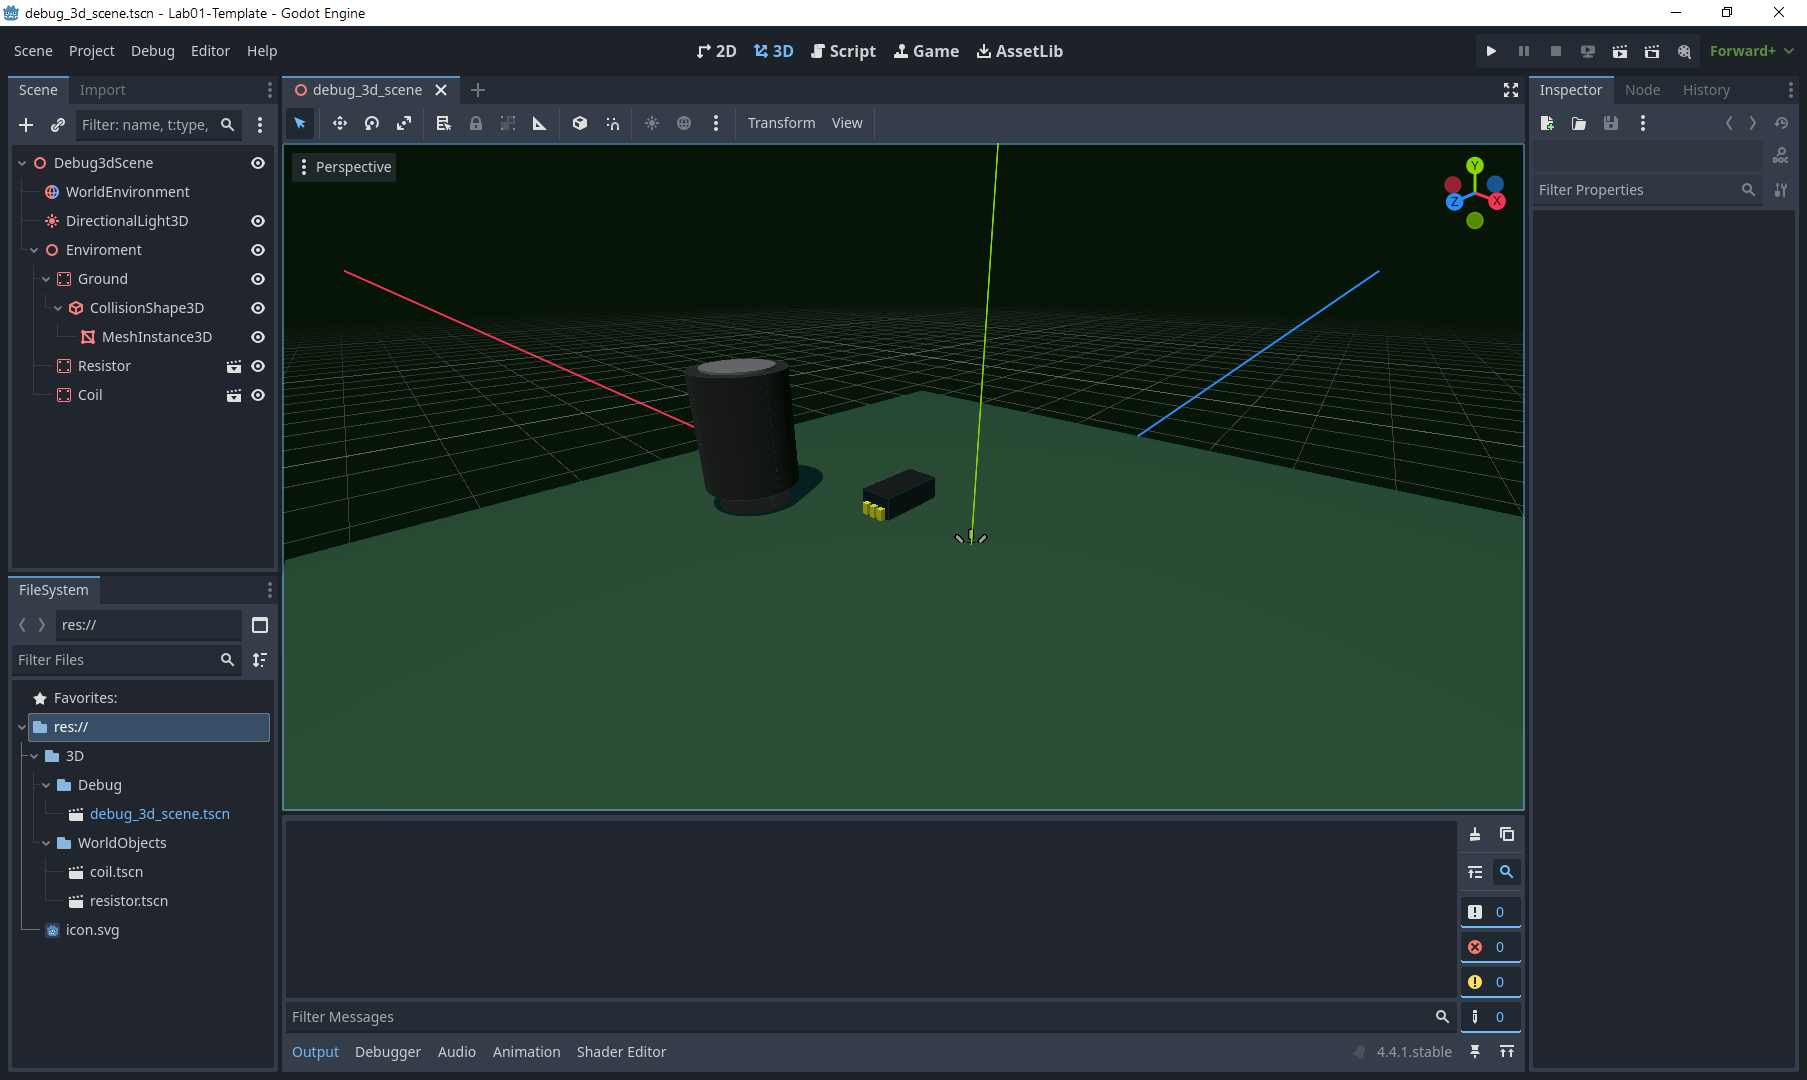
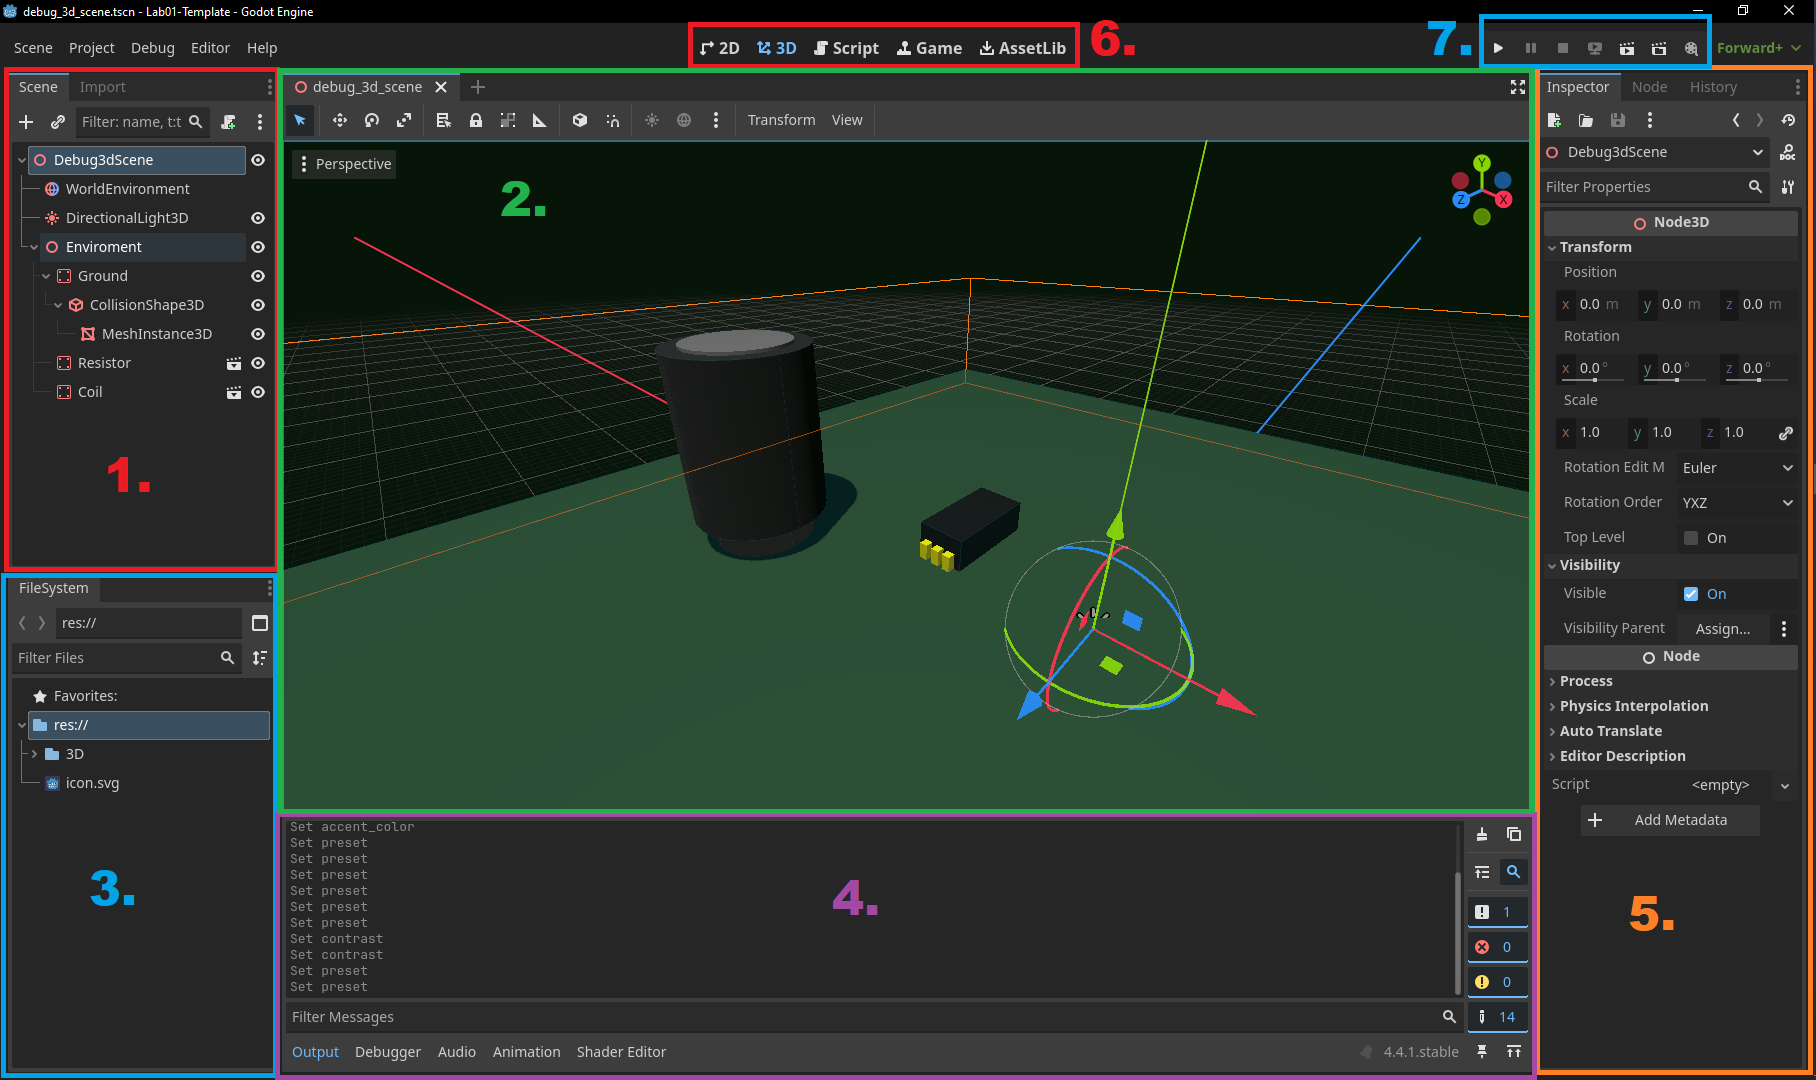
6 Chapters done to node hierarchy explain

diff --git a/01_Basics/lab01.md b/01_Basics/lab01.md
@@ -18,7 +18,7 @@ First we need to download the Godot Engine itself. Each Godot release has two ve
 This tutorial will use the standard version using GDScript, which is a python-like scripting language made specifically for Godot. You can use C# and GDScript interchangeably in one project (with some minor restrictions) but this tutorial will be done entirely in GDScript for simplicity.
 
 <aside class="positive">
-To maximaze performance of a project you would ideally use C# for complex algorithms (such as pathfinding or other complex calculations) and GDScript for interfacing with the engine and calling engine functions.  
+To maximize performance of a project you would ideally use C# for complex algorithms (such as pathfinding or other complex calculations) and GDScript for interfacing with the engine and calling engine functions.  
 </aside>
 
 ### Engine Version
@@ -48,6 +48,129 @@ Each lab will have a template project that we will fill out together. This lab's
 1. Download the template using the link above
 2. Place it into a folder of your choosing, where you will have all other Godot projects.
 3. Launch the Godot Engine `Godot_v4.4.1-stable_win64.exe` (or an alternative for your operating system)
-4. Click one the import button and find the folder, where you downloaded the template project. There select the `project.godot` file and press open. ![](img/ProjectImport.png)
+4. Click one of the `Import` buttons and find the folder, where you downloaded the template project. There select the `project.godot` file and press open. ![](img/ProjectImport.png)
 5. In the popup window select `Import`.
+6. The project should be open now.
+
+
+
+## Godot UI
+Duration: hh:mm:ss
+
+Now with the project open it might a bit overwhelming to orient yourself in the Godot UI so let's look at it. (Each part will be explained in greater detail later on)
+![](img/GodotUI.png)
+1. This is the Scene hierarchy. Here you will see all the Nodes (basic building blocks) in the current scene and how they are composed in the scene tree. There is also a second tab for import settings of assets.
+2. This is the scene view. It is visible because in 6. the 3D tab is selected. This is the main way you can look around and preview the scene you are making.
+3. This is the FileSystem. It shows you all the files, folders, and assets that are present in the projects folder.
+4. This is a window with multiple functionalities. 
+    - It has the output console, where you will see all messages printed during play.
+    - The debugger, where you can find all the information about the performance, errors, networking etc.
+    - Audio bus settings, animation window, shader editor and much more.
+5. This is the Inspector. Here you can change all the exposed parameters of nodes such as the position, rotation, scale, visibility, etc.
+6. This is where you can change the tabs, which influence what you can see in the scene view (2.). 
+    - The 2D/3D tabs shows you the current scene from that perspective
+    - The Script tab hosts the in engine IDE for writing scripts.
+    - The Game tab has the game window, where you can try the game once you run it.
+    <aside class="negative">
+    Note that 3D scenes cannot be viewed in 2D using these tabs and vice versa.
+    </aside>
+7. This is the Play panel. We will be mainly interested in the first button, which starts the full game (a set main scene) then the next 2 buttons for control and the fifth button for playing the current scene.
+
+Don't worry if you feel lost. We will go though all these parts in much more detail later. This is just an overview.
+
+
+
+## 3D Navigation
+Duration: hh:mm:ss
+
+In this section we will learn several ways how to move in the 3D scene view (for 2D it is very similar). There are 2 main ways:
+
+### Middle Mouse Button (MMB)
+You can hold the middle mouse button to move in different ways in the scene and can be seen in this video:
+<video id=wXRXxe11oss></video>
+
+- `MMB` - Rotate around a point
+- `SHIFT + MMB` - Pan
+- `CTRL + MMB` - Zoom in/out
+
+Please try to move in the scene using this method.
+
+### Flying camera
+The second way, and in my opinion the best way, to move is using the flying camera. It is active while holding the `Right Mouse Button` and pressing these buttons:
+<video id=FSjuFlvCc8U></video>
+
+- `W,A,S,D` to move forwards/backwards and right/left
+- `Q,E` to move up/down
+- `SHIFT` to move faster
+- `MMB scroll` to control the speed
+
+
+Please try to move in the scene using this method.
+
+
+
+## Scene manipulation
+Duration: hh:mm:ss
+
+Let's learn how you can manipulate objects (nodes) in the scene. Find and Select the `Resistor` node in the scene hierarchy on the left.
+
+<aside class="positive">
+If the resistor is out of view or you are far away you can press F to focus on it. 
+</aside>
+
+Now with the `Resistor` selected and in view you can move it, rotate it or scale it. You can do that using several ways.
+
+![](img/ResistorManipulation.png)
+1. Select a tool from the tool panel (1.) and then hold left click and drag in the scene view (`Q` select, `W` move, `E` rotate, `R` scale).
+2. Grab the colorful parts of the "Gizmo" seen in the image (2.), then hold left mouse button and drag.
+3. Directly change the coordinates/degrees/scale of the object in the inspector
+
+<aside class="positive">
+You can hold CTRL and SHIFT while manipulating with objects to snap them to a grid.
+</aside>
+
+### Object duplication
+Our scene is looking a little sad so let's add a big more resistors. Select the `Resistor` node and press `CTRL+D` to duplicate. Now repeat this step and move, scale, and rotate it to make the scene look nicer.
+
+Try to use all three ways to manipulate the objects.
+
+<aside class="positive">
+You can select multiple resistors and duplicate them all. So that you don't have to duplicate them one by one.
+</aside>
+
+If you played with the scale of objects you might have noticed that they are no longer placed precisely on the ground. They are either a above/below ground or partway in the ground. You can use:
+- `PAGEDOWN` key to snap an object to the ground.
+- `SHIFT+G` and then click to place it on any surface.
+
+After you are happy with the scene you can continue. Mine looks like this:
+
+![](img/DebugScenePopulated.png)
+
+
+
+
+## Node Hierarchy
+Duration: hh:mm:ss
+
+Let's now dive a bit into the theory behind nodes, trees, and scene hierarchy.
+
+### Nodes
+You can think of a node as ingredients in a recipe having a singular purpose. One node might handle showing the Mesh/Sprite of the player, one might handle the collision shape etc. There are many types of nodes with different functionalities.
+
+Each node can only have one script attached, which supports the theory of each node having one functionality. 
+
+### Hierarchy
+In the image below you can see that some nodes are "inside" others. This structure follows the logical ordering of the nodes and their functionalities. For example:
+- `Player` node (type CharacterBody2D) handles all player movement and controls
+    - `AnimatedSprite2D` handles the animations of the player sprite
+    - `CollisionShape2D` handles the physics shape the player should have
+    - `AudioStreamPlayer2D` handles playing sounds the player makes
+    - `Camera2D` handles showing view from the scene to the monitor
+
+![](img/GD_nodes_and_scenes_nodes.webp)
+
+This hierarchy also keeps many properties consistent.
+- **Transform** - if `Player` node is moved/rotated/scaled the transformation is applied to all the nodes inside it.
+- **Visibility** - if `Player` is hidden all children nodes are also hidden (eye icon next to the node)
+- many others ...
 
